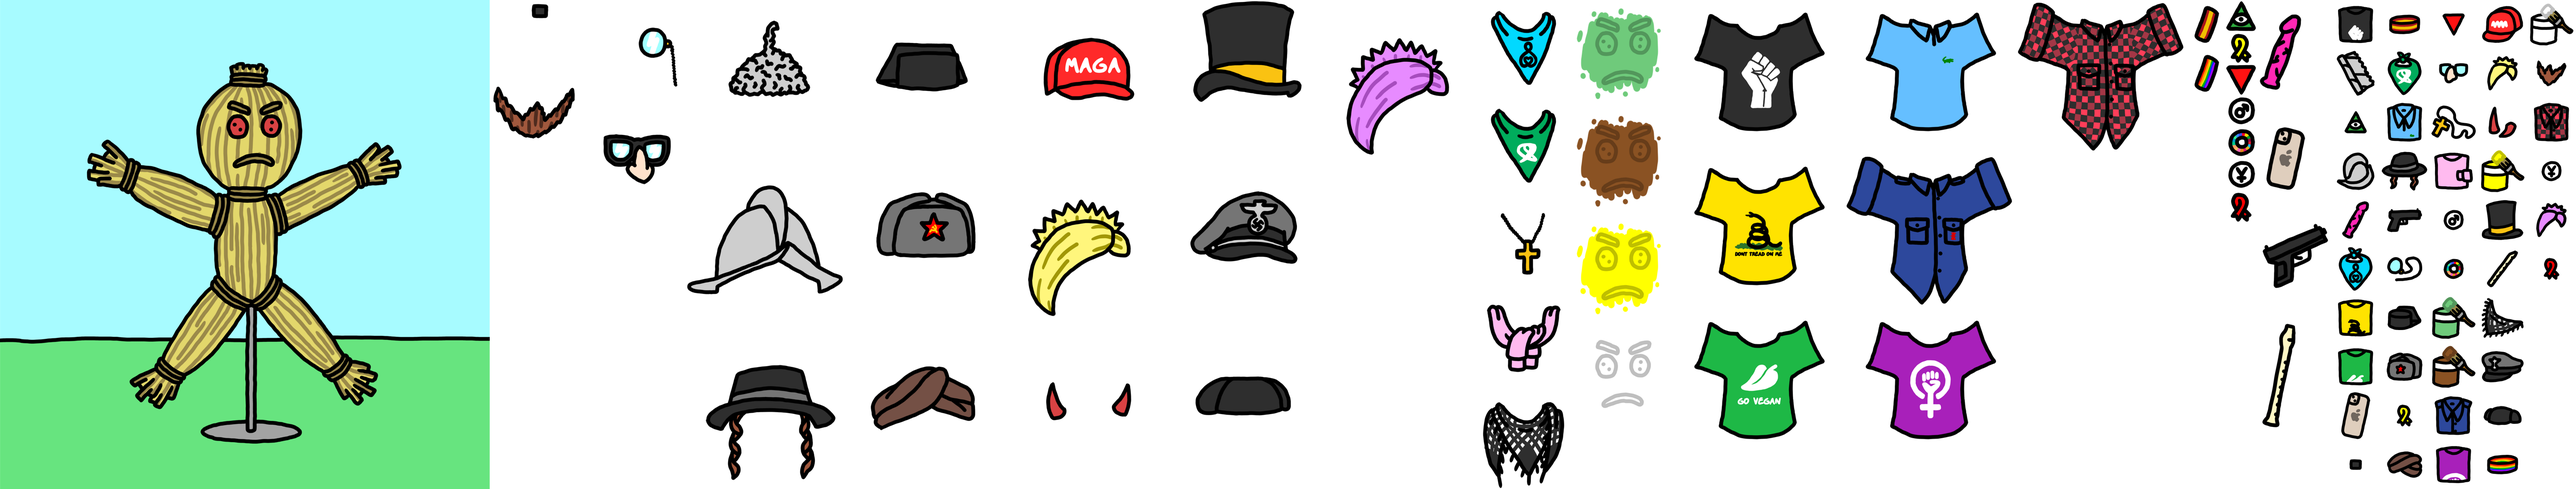
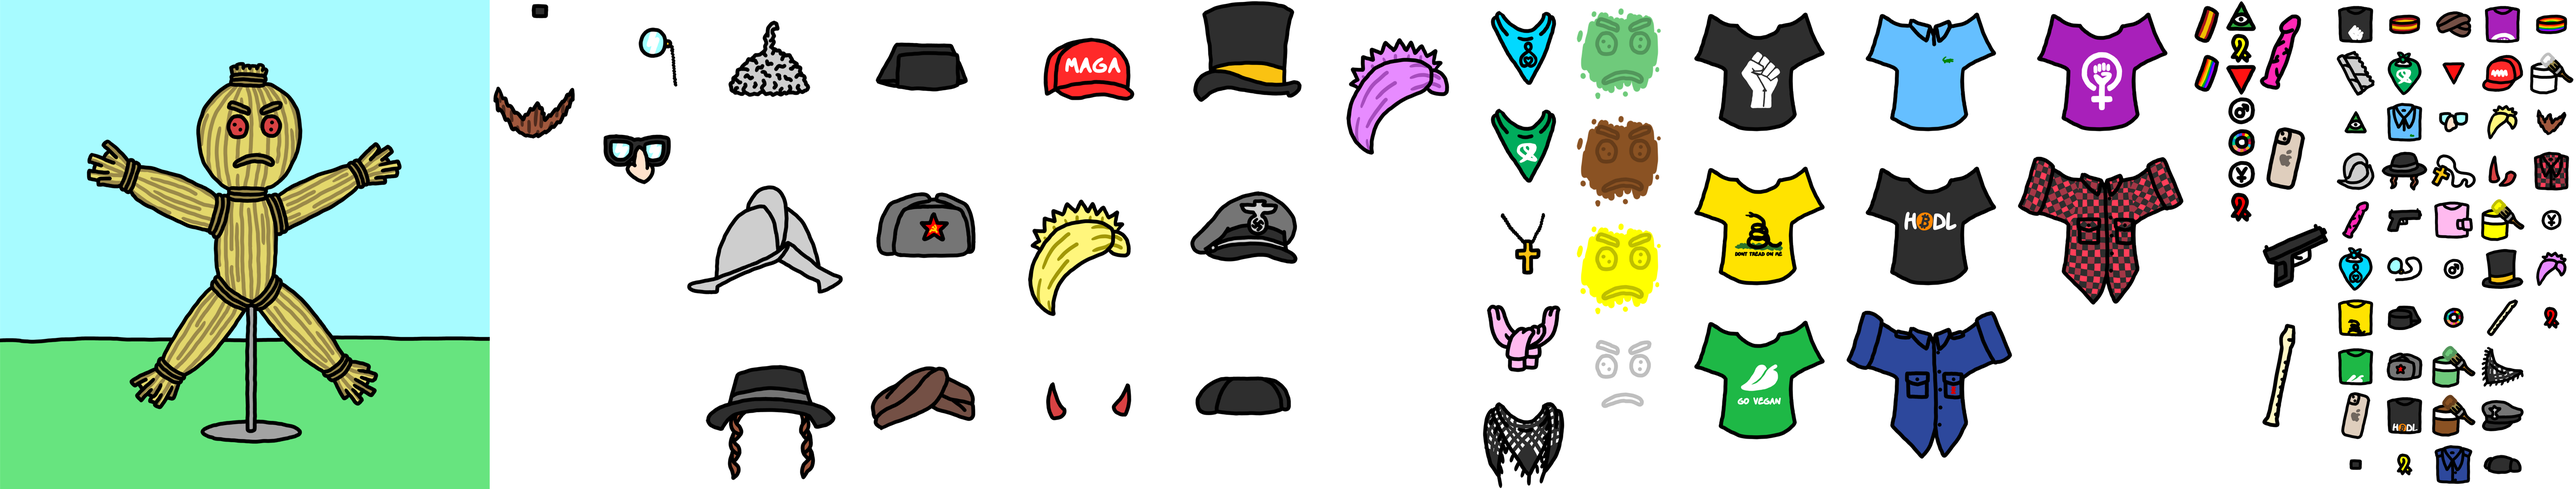
New accesories

Changed region(s): [[0.7171, 0.0, 0.873, 0.93], [0.9354, 0.0, 1.0, 0.589], [0.9042, 0.62, 0.9977, 0.992]]

diff --git a/docs/static/js/main.fb8fb88e.chunk.js b/docs/static/js/main.fb8fb88e.chunk.js
@@ -1,0 +1,2 @@
+(this.webpackJsonpstrawman=this.webpackJsonpstrawman||[]).push([[0],[,function(e){e.exports=JSON.parse('{"2030":{"en":"2030","es":"2030"},"loading":{"en":"loading","es":"cargando"},"make":{"en":"make your own","es":"crea tu propio"},"by":{"en":"by","es":"por"},"make_at":{"en":"make your own at","es":"crea el tuyo propio en"},"strawman":{"en":"straw man","es":"hombre de paja"},"download":{"en":"download","es":"descargar"},"accessories":{"en":"accessories","es":"accesorios"},"head":{"en":"head","es":"cabeza"},"color":{"en":"skin color","es":"tono de piel"},"glasses":{"en":"glasses","es":"gafas"},"neck":{"en":"neck","es":"cuello"},"bracelets":{"en":"bracelets","es":"pulseras"},"badges":{"en":"badges","es":"pines"},"hand":{"en":"hand","es":"mano"},"chest":{"en":"chest","es":"pecho"},"mouth":{"en":"mouth","es":"boca"},"spain":{"en":"Spain","es":"Espa\xf1a"},"lgbt":{"en":"LGBTIQ+","es":"LGBTIQ+"},"illuminati":{"en":"Illuminati","es":"Illuminati"},"yunque":{"en":"El Yunque","es":"El Yunque"},"male":{"en":"male","es":"hombre"},"red_triangle":{"en":"red triangle","es":"tri\xe1ngulo rojo"},"red_ribbon":{"en":"red ribbon","es":"lazo rojo"},"yellow_ribbon":{"en":"yellow ribbon","es":"lazo amarillo"},"prochoice":{"en":"pro-choice bandana","es":"pa\xf1uelo abortero"},"prolife":{"en":"pro-life bandana","es":"pa\xf1uelo provida"},"cross":{"en":"cross necklace","es":"colgante con cruz"},"nose":{"en":"glasses with nose","es":"gafas con nariz"},"monocle":{"en":"monocle","es":"mon\xf3culo"},"green":{"en":"green","es":"verde"},"white":{"en":"white","es":"blanco"},"yellow":{"en":"yellow","es":"amarillo"},"brown":{"en":"brown","es":"marr\xf3n"},"morion":{"en":"morion","es":"morri\xf3n"},"turban":{"en":"turban","es":"turbante"},"sideburns":{"en":"hat with sideburns","es":"gorro con patillas"},"commie":{"en":"communist hat","es":"gorro comunista"},"top":{"en":"top hat","es":"chistera"},"nazi":{"en":"nazi hat","es":"gorra nazi"},"maga":{"en":"MAGA hat","es":"gorra MAGA"},"tricornio":{"en":"tricornio","es":"tricornio"},"montera":{"en":"montera","es":"montera"},"pink_hair":{"en":"pink hair","es":"pelo rosa"},"blond_hair":{"en":"blond hair","es":"pelo rubio"},"horns":{"en":"horns","es":"cuernos"},"keffiyeh":{"en":"Palestinian keffiyeh","es":"palestina"},"sweater":{"en":"sweater","es":"jersey"},"tinfoil":{"en":"tinfoil","es":"papel de aluminio"},"flute":{"en":"flute","es":"flauta"},"dildo":{"en":"dildo","es":"consolador"},"gun":{"en":"gun","es":"pistola"},"iphone":{"en":"iPhone","es":"iPhone"},"blue_shirt":{"en":"blue shirt","es":"camisa azul"},"lumberjack":{"en":"lumberjack shirt","es":"camisa le\xf1ador"},"blm":{"en":"BLM T-shirt","es":"camiseta BLM"},"gadsden":{"en":"Gadsden T-shirt","es":"camiseta Gadsden"},"polo":{"en":"polo shirt","es":"polo"},"vegan":{"en":"vegan T-shirt","es":"camiseta vegana"},"feminism":{"en":"feminist T-shirt","es":"camiseta feminista"},"bitcoin":{"en":"camiseta de Bitcoin","es":"Bitcoin T-shirt"},"chaplin":{"en":"Chaplin moustache","es":"bigote de Chaplin"},"beard":{"en":"beard","es":"barba"}}')},,,,,,,,,function(e){e.exports=JSON.parse('{"strawman":{"y":0,"h":1000,"w":1000,"x":0},"chest":{"vegan":{"y":630,"h":315,"w":350,"x":3415,"t":{"y":700,"h":100,"w":100,"x":4760}},"blm":{"y":0,"h":315,"w":350,"x":3415,"t":{"y":0,"h":100,"w":100,"x":4760}},"lumberjack":{"y":315,"h":315,"w":350,"x":4115,"t":{"y":300,"h":100,"w":100,"x":5160}},"gadsden":{"y":315,"h":315,"w":350,"x":3415,"t":{"y":600,"h":100,"w":100,"x":4760}},"bitcoin":{"y":315,"h":315,"w":350,"x":3765,"t":{"y":800,"h":100,"w":100,"x":4860}},"feminism":{"y":0,"h":315,"w":350,"x":4115,"t":{"y":0,"h":100,"w":100,"x":5060}},"polo":{"y":0,"h":315,"w":350,"x":3765,"t":{"y":200,"h":100,"w":100,"x":4860}},"blue_shirt":{"y":630,"h":315,"w":350,"x":3765,"t":{"y":900,"h":100,"w":100,"x":4960}}},"mouth":{"beard":{"y":145,"h":145,"w":180,"x":1000,"t":{"y":200,"h":100,"w":100,"x":5160}},"chaplin":{"y":0,"h":145,"w":180,"x":1000,"t":{"y":900,"h":100,"w":100,"x":4760}}},"color":{"brown":{"y":220,"h":220,"w":220,"x":3195,"t":{"y":800,"h":100,"w":100,"x":4960}},"green":{"y":0,"h":220,"w":220,"x":3195,"t":{"y":700,"h":100,"w":100,"x":4960}},"white":{"y":660,"h":220,"w":220,"x":3195,"t":{"y":100,"h":100,"w":100,"x":5160}},"yellow":{"y":440,"h":220,"w":220,"x":3195,"t":{"y":400,"h":100,"w":100,"x":5060}}},"hand":{"gun":{"y":440,"h":220,"w":150,"x":4610,"t":{"y":400,"h":100,"w":100,"x":4860}},"iphone":{"y":220,"h":220,"w":150,"x":4610,"t":{"y":800,"h":100,"w":100,"x":4760}},"dildo":{"y":0,"h":220,"w":150,"x":4610,"t":{"y":400,"h":100,"w":100,"x":4760}},"flute":{"y":660,"h":220,"w":150,"x":4610,"t":{"y":600,"h":100,"w":100,"x":5060}}},"badges":{"2030":{"y":260,"h":65,"w":65,"x":4545,"t":{"y":600,"h":100,"w":100,"x":4960}},"yunque":{"y":325,"h":65,"w":65,"x":4545,"t":{"y":400,"h":100,"w":100,"x":5160}},"red_triangle":{"y":130,"h":65,"w":65,"x":4545,"t":{"y":100,"h":100,"w":100,"x":4960}},"red_ribbon":{"y":390,"h":65,"w":65,"x":4545,"t":{"y":600,"h":100,"w":100,"x":5160}},"illuminati":{"y":0,"h":65,"w":65,"x":4545,"t":{"y":200,"h":100,"w":100,"x":4760}},"yellow_ribbon":{"y":65,"h":65,"w":65,"x":4545,"t":{"y":900,"h":100,"w":100,"x":4860}},"male":{"y":195,"h":65,"w":65,"x":4545,"t":{"y":500,"h":100,"w":100,"x":4960}}},"glasses":{"monocle":{"y":0,"h":220,"w":220,"x":1180,"t":{"y":500,"h":100,"w":100,"x":4860}},"nose":{"y":220,"h":220,"w":220,"x":1180,"t":{"y":200,"h":100,"w":100,"x":4960}}},"bracelets":{"lgbt":{"y":100,"h":100,"w":80,"x":4465,"t":{"y":0,"h":100,"w":100,"x":5160}},"spain":{"y":0,"h":100,"w":80,"x":4465,"t":{"y":0,"h":100,"w":100,"x":4860}}},"neck":{"prolife":{"y":0,"h":200,"w":170,"x":3025,"t":{"y":500,"h":100,"w":100,"x":4760}},"prochoice":{"y":200,"h":200,"w":170,"x":3025,"t":{"y":100,"h":100,"w":100,"x":4860}},"keffiyeh":{"y":800,"h":200,"w":170,"x":3025,"t":{"y":700,"h":100,"w":100,"x":5060}},"sweater":{"y":600,"h":200,"w":170,"x":3025,"t":{"y":400,"h":100,"w":100,"x":4960}},"cross":{"y":400,"h":200,"w":170,"x":3025,"t":{"y":300,"h":100,"w":100,"x":4960}}},"head":{"montera":{"y":660,"h":330,"w":325,"x":2375,"t":{"y":900,"h":100,"w":100,"x":5060}},"blond_hair":{"y":330,"h":330,"w":325,"x":2050,"t":{"y":200,"h":100,"w":100,"x":5060}},"turban":{"y":660,"h":330,"w":325,"x":1725,"t":{"y":0,"h":100,"w":100,"x":4960}},"horns":{"y":660,"h":330,"w":325,"x":2050,"t":{"y":300,"h":100,"w":100,"x":5060}},"nazi":{"y":330,"h":330,"w":325,"x":2375,"t":{"y":800,"h":100,"w":100,"x":5060}},"sideburns":{"y":660,"h":330,"w":325,"x":1400,"t":{"y":300,"h":100,"w":100,"x":4860}},"morion":{"y":330,"h":330,"w":325,"x":1400,"t":{"y":300,"h":100,"w":100,"x":4760}},"tinfoil":{"y":0,"h":330,"w":325,"x":1400,"t":{"y":100,"h":100,"w":100,"x":4760}},"commie":{"y":330,"h":330,"w":325,"x":1725,"t":{"y":700,"h":100,"w":100,"x":4860}},"top":{"y":0,"h":330,"w":325,"x":2375,"t":{"y":500,"h":100,"w":100,"x":5060}},"pink_hair":{"y":0,"h":330,"w":325,"x":2700,"t":{"y":500,"h":100,"w":100,"x":5160}},"tricornio":{"y":0,"h":330,"w":325,"x":1725,"t":{"y":600,"h":100,"w":100,"x":4860}},"maga":{"y":0,"h":330,"w":325,"x":2050,"t":{"y":100,"h":100,"w":100,"x":5060}}}}')},,,function(e){e.exports=JSON.parse('{"head":{"x":340,"y":10,"w":325,"h":330,"z":8},"color":{"x":400,"y":170,"w":220,"h":220,"z":5},"mouth":{"x":420,"y":280,"w":180,"h":145,"z":6},"glasses":{"x":400,"y":170,"w":220,"h":220,"z":7},"neck":{"x":420,"y":355,"w":170,"h":200,"z":1},"bracelets":{"x":225,"y":310,"w":80,"h":100,"z":2},"badges":{"x":515,"y":395,"w":65,"h":65,"z":3},"hand":{"x":715,"y":230,"w":150,"h":220,"z":4},"chest":{"x":330,"y":345,"w":350,"h":315,"z":0}}')},,,,,,function(e,t,a){},function(e,t,a){},function(e,t,a){},,function(e,t,a){},function(e,t,a){},function(e,t,a){"use strict";a.r(t);var n=a(2),s=a.n(n),i=a(11),r=a.n(i),o=(a(19),a(3)),h=a(4),c=a(6),l=a(5),d=(a(20),a(14)),w=a(12),p=(a(21),function e(t){Object(o.a)(this,e),this.x=t.x,this.y=t.y,this.w=t.w,this.h=t.h}),y=function e(t,a,n,s){Object(o.a)(this,e),this.selected=!1,this.name=t,this.category=a,this.origin=new p(n),this.destination=new p(s),this.order=s.z,this.thumbnail=new p(n.t)},u=a(1),m=a(0),x=function(e){Object(c.a)(a,e);var t=Object(l.a)(a);function a(e){var s;return Object(o.a)(this,a),(s=t.call(this,e)).side=s.props.strawman.h,s.canvas=Object(n.createRef)(),s.maxScaleFactor=.7,s.state={scaleFactor:s.getScaleFactor()},s}return Object(h.a)(a,[{key:"componentDidMount",value:function(){var e=this;window.addEventListener("resize",(function(){e.setState({scaleFactor:e.getScaleFactor()})})),this.drawCanvas()}},{key:"componentDidUpdate",value:function(){this.drawCanvas()}},{key:"render",value:function(){var e=this;return Object(m.jsxs)("div",{className:"canvas-component",children:[Object(m.jsxs)("h1",{children:[Object(m.jsx)("div",{children:u.make[this.props.lang].capitalize()}),Object(m.jsx)("div",{children:u.strawman[this.props.lang].toUpperCase()}),Object(m.jsxs)("div",{children:[u.by[this.props.lang]," ",Object(m.jsx)("a",{href:"/",target:"_blank",children:"progredemente"})]})]}),Object(m.jsx)("canvas",{ref:this.canvas,width:this.side*this.state.scaleFactor,height:this.side*this.state.scaleFactor}),Object(m.jsx)("div",{className:"download",onClick:function(){e.downloadImage()},children:u.download[this.props.lang].capitalize()})]})}},{key:"drawCanvas",value:function(){var e=this.getTempCanvas(),t=this.canvas.current.getContext("2d");t.clearRect(0,0,this.side*this.state.scaleFactor,this.side*this.state.scaleFactor),t.drawImage(e,0,0,this.side*this.state.scaleFactor,this.side*this.state.scaleFactor)}},{key:"getTempCanvas",value:function(){var e=document.createElement("canvas");e.width=this.side,e.height=this.side;var t=e.getContext("2d");return this.drawImage(this.props.strawman,this.props.strawman,t),this.drawWardrobe(this.props.wardrobe,t),this.drawUrl(t),e}},{key:"drawWardrobe",value:function(e,t){var a,n=Object(w.a)(this.getClothes(e).sort((function(e,t){return e.order-t.order})));try{for(n.s();!(a=n.n()).done;){var s=a.value;this.drawImage(s.origin,s.destination,t)}}catch(i){n.e(i)}finally{n.f()}}},{key:"getClothes",value:function(e){var t=[];for(var a in e)e[a]instanceof y?e[a].selected&&t.push(e[a]):t.push.apply(t,Object(d.a)(this.getClothes(e[a])));return t}},{key:"drawImage",value:function(e,t,a){a.drawImage(this.props.img,e.x,e.y,e.w,e.h,t.x,t.y,t.w,t.h)}},{key:"drawUrl",value:function(e){e.font="40px ComicTypo",e.textAlign="center",e.globalAlpha=.25,e.fillText(u.make_at[this.props.lang].capitalize(),this.side/2,this.side-60),e.globalAlpha=.5,e.fillText("progredemente.com/strawman",this.side/2,this.side-20)}},{key:"downloadImage",value:function(){var e=document.createElement("a");e.download="strawman.png",this.getTempCanvas().toBlob((function(t){var a=URL.createObjectURL(t);e.href=a,e.click()}))}},{key:"getScaleFactor",value:function(){return window.innerWidth<this.side*this.maxScaleFactor?window.innerWidth/this.side:this.maxScaleFactor}}]),a}(n.Component),b=(a(23),a(24),function(e){Object(c.a)(a,e);var t=Object(l.a)(a);function a(){return Object(o.a)(this,a),t.apply(this,arguments)}return Object(h.a)(a,[{key:"render",value:function(){var e=this;return Object(m.jsxs)("div",{className:"garment".concat(this.props.garment.selected?" selected":""),onClick:function(){e.props.selectGarment(e.props.garment)},children:[Object(m.jsx)("img",{src:"./merge.png",style:{"--x":"".concat(this.props.garment.thumbnail.x,"px"),"--y":"".concat(this.props.garment.thumbnail.y,"px"),"--w":"".concat(this.props.garment.thumbnail.w,"px"),"--h":"".concat(this.props.garment.thumbnail.h,"px")},alt:u[this.props.garment.name][this.props.lang]}),Object(m.jsx)("figcaption",{children:u[this.props.garment.name][this.props.lang]})]})}}]),a}(n.Component)),g=b,f=function(e){Object(c.a)(a,e);var t=Object(l.a)(a);function a(){return Object(o.a)(this,a),t.apply(this,arguments)}return Object(h.a)(a,[{key:"render",value:function(){var e=this;return Object(m.jsxs)("div",{className:"wardrobe",children:[Object(m.jsx)("h1",{children:u.accessories[this.props.lang].capitalize()}),Object.keys(this.props.wardrobe).map((function(t){return Object(m.jsxs)("div",{className:"category",children:[Object(m.jsx)("span",{children:u[t][e.props.lang].capitalize()}),Object(m.jsx)("div",{className:"content",children:Object.keys(e.props.wardrobe[t]).map((function(a){return Object(m.jsx)(g,{garment:e.props.wardrobe[t][a],selectGarment:e.props.selectGarment,lang:e.props.lang},a)}))})]},t)}))]})}}]),a}(n.Component),j=f,v=a(10),O=a(13),k=function(e){Object(c.a)(a,e);var t=Object(l.a)(a);function a(e){var n,s;Object(o.a)(this,a),(n=t.call(this,e)).selectGarment=function(e){if(!e.selected)for(var t in e.category){var a=e.category[t];a!==e&&(a.selected=!1)}e.selected=!e.selected,n.setState({})};try{s=navigator.language.toLowerCase().split("-")[0]}catch(i){}return["en","es"].includes(s)||(s="en"),n.state={wardrobe:n.getWardrobe(v,O),lang:s,loaded:!1},n}return Object(h.a)(a,[{key:"componentDidMount",value:function(){var e=this;this.img=new Image,this.img.src="./merge.png",this.img.onload=function(){e.setState({loaded:!0})}}},{key:"getWardrobe",value:function(e,t){var a={};for(var n in e)if("strawman"!==n)for(var s in a[n]={},e[n])a[n][s]=new y(s,a[n],e[n][s],t[n]);return a}},{key:"render",value:function(){return Object(m.jsxs)(m.Fragment,{children:[this.state.loaded&&Object(m.jsxs)("div",{className:"app",children:[Object(m.jsx)(x,{wardrobe:this.state.wardrobe,strawman:new p(v.strawman),lang:this.state.lang,img:this.img}),Object(m.jsx)(j,{wardrobe:this.state.wardrobe,selectGarment:this.selectGarment,lang:this.state.lang})]}),!this.state.loaded&&Object(m.jsxs)("div",{className:"loading",children:[Object(m.jsx)("img",{src:"./favicon.png",alt:u.loading[this.state.lang]}),u.loading[this.state.lang]]})]})}}]),a}(n.Component),z=function(e){e&&e instanceof Function&&a.e(3).then(a.bind(null,26)).then((function(t){var a=t.getCLS,n=t.getFID,s=t.getFCP,i=t.getLCP,r=t.getTTFB;a(e),n(e),s(e),i(e),r(e)}))};String.prototype.capitalize=function(){return this[0].toUpperCase()+this.substr(1,this.length)},r.a.render(Object(m.jsx)(s.a.StrictMode,{children:Object(m.jsx)(k,{})}),document.getElementById("root")),z()}],[[25,1,2]]]);
+//# sourceMappingURL=main.fb8fb88e.chunk.js.map

diff --git a/docs/index.html b/docs/index.html
@@ -1,1 +1,1 @@
-<!doctype html><html lang="en"><head><meta charset="utf-8"/><link rel="icon" href="./favicon.png"/><meta name="viewport" content="width=device-width,initial-scale=1"/><meta name="theme-color" content="#000000"/><meta name="description" content="Web site created using create-react-app"/><link rel="apple-touch-icon" href="./logo192.png"/><link rel="manifest" href="./manifest.json"/><title>Straw man</title><link href="./static/css/main.2544bd09.chunk.css" rel="stylesheet"></head><body><noscript>You need to enable JavaScript to run this app.</noscript><div id="root"></div><script>!function(e){function r(r){for(var n,a,i=r[0],c=r[1],l=r[2],s=0,p=[];s<i.length;s++)a=i[s],Object.prototype.hasOwnProperty.call(o,a)&&o[a]&&p.push(o[a][0]),o[a]=0;for(n in c)Object.prototype.hasOwnProperty.call(c,n)&&(e[n]=c[n]);for(f&&f(r);p.length;)p.shift()();return u.push.apply(u,l||[]),t()}function t(){for(var e,r=0;r<u.length;r++){for(var t=u[r],n=!0,i=1;i<t.length;i++){var c=t[i];0!==o[c]&&(n=!1)}n&&(u.splice(r--,1),e=a(a.s=t[0]))}return e}var n={},o={1:0},u=[];function a(r){if(n[r])return n[r].exports;var t=n[r]={i:r,l:!1,exports:{}};return e[r].call(t.exports,t,t.exports,a),t.l=!0,t.exports}a.e=function(e){var r=[],t=o[e];if(0!==t)if(t)r.push(t[2]);else{var n=new Promise((function(r,n){t=o[e]=[r,n]}));r.push(t[2]=n);var u,i=document.createElement("script");i.charset="utf-8",i.timeout=120,a.nc&&i.setAttribute("nonce",a.nc),i.src=function(e){return a.p+"static/js/"+({}[e]||e)+"."+{3:"6449b234"}[e]+".chunk.js"}(e);var c=new Error;u=function(r){i.onerror=i.onload=null,clearTimeout(l);var t=o[e];if(0!==t){if(t){var n=r&&("load"===r.type?"missing":r.type),u=r&&r.target&&r.target.src;c.message="Loading chunk "+e+" failed.\n("+n+": "+u+")",c.name="ChunkLoadError",c.type=n,c.request=u,t[1](c)}o[e]=void 0}};var l=setTimeout((function(){u({type:"timeout",target:i})}),12e4);i.onerror=i.onload=u,document.head.appendChild(i)}return Promise.all(r)},a.m=e,a.c=n,a.d=function(e,r,t){a.o(e,r)||Object.defineProperty(e,r,{enumerable:!0,get:t})},a.r=function(e){"undefined"!=typeof Symbol&&Symbol.toStringTag&&Object.defineProperty(e,Symbol.toStringTag,{value:"Module"}),Object.defineProperty(e,"__esModule",{value:!0})},a.t=function(e,r){if(1&r&&(e=a(e)),8&r)return e;if(4&r&&"object"==typeof e&&e&&e.__esModule)return e;var t=Object.create(null);if(a.r(t),Object.defineProperty(t,"default",{enumerable:!0,value:e}),2&r&&"string"!=typeof e)for(var n in e)a.d(t,n,function(r){return e[r]}.bind(null,n));return t},a.n=function(e){var r=e&&e.__esModule?function(){return e.default}:function(){return e};return a.d(r,"a",r),r},a.o=function(e,r){return Object.prototype.hasOwnProperty.call(e,r)},a.p="./",a.oe=function(e){throw console.error(e),e};var i=this.webpackJsonpstrawman=this.webpackJsonpstrawman||[],c=i.push.bind(i);i.push=r,i=i.slice();for(var l=0;l<i.length;l++)r(i[l]);var f=c;t()}([])</script><script src="./static/js/2.81d7165c.chunk.js"></script><script src="./static/js/main.3e4aa3d1.chunk.js"></script></body></html>
+<!doctype html><html lang="en"><head><meta charset="utf-8"/><link rel="icon" href="./favicon.png"/><meta name="viewport" content="width=device-width,initial-scale=1"/><meta name="theme-color" content="#000000"/><meta name="description" content="Web site created using create-react-app"/><link rel="apple-touch-icon" href="./logo192.png"/><link rel="manifest" href="./manifest.json"/><title>Straw man</title><link href="./static/css/main.2544bd09.chunk.css" rel="stylesheet"></head><body><noscript>You need to enable JavaScript to run this app.</noscript><div id="root"></div><script>!function(e){function r(r){for(var n,a,i=r[0],c=r[1],l=r[2],s=0,p=[];s<i.length;s++)a=i[s],Object.prototype.hasOwnProperty.call(o,a)&&o[a]&&p.push(o[a][0]),o[a]=0;for(n in c)Object.prototype.hasOwnProperty.call(c,n)&&(e[n]=c[n]);for(f&&f(r);p.length;)p.shift()();return u.push.apply(u,l||[]),t()}function t(){for(var e,r=0;r<u.length;r++){for(var t=u[r],n=!0,i=1;i<t.length;i++){var c=t[i];0!==o[c]&&(n=!1)}n&&(u.splice(r--,1),e=a(a.s=t[0]))}return e}var n={},o={1:0},u=[];function a(r){if(n[r])return n[r].exports;var t=n[r]={i:r,l:!1,exports:{}};return e[r].call(t.exports,t,t.exports,a),t.l=!0,t.exports}a.e=function(e){var r=[],t=o[e];if(0!==t)if(t)r.push(t[2]);else{var n=new Promise((function(r,n){t=o[e]=[r,n]}));r.push(t[2]=n);var u,i=document.createElement("script");i.charset="utf-8",i.timeout=120,a.nc&&i.setAttribute("nonce",a.nc),i.src=function(e){return a.p+"static/js/"+({}[e]||e)+"."+{3:"6449b234"}[e]+".chunk.js"}(e);var c=new Error;u=function(r){i.onerror=i.onload=null,clearTimeout(l);var t=o[e];if(0!==t){if(t){var n=r&&("load"===r.type?"missing":r.type),u=r&&r.target&&r.target.src;c.message="Loading chunk "+e+" failed.\n("+n+": "+u+")",c.name="ChunkLoadError",c.type=n,c.request=u,t[1](c)}o[e]=void 0}};var l=setTimeout((function(){u({type:"timeout",target:i})}),12e4);i.onerror=i.onload=u,document.head.appendChild(i)}return Promise.all(r)},a.m=e,a.c=n,a.d=function(e,r,t){a.o(e,r)||Object.defineProperty(e,r,{enumerable:!0,get:t})},a.r=function(e){"undefined"!=typeof Symbol&&Symbol.toStringTag&&Object.defineProperty(e,Symbol.toStringTag,{value:"Module"}),Object.defineProperty(e,"__esModule",{value:!0})},a.t=function(e,r){if(1&r&&(e=a(e)),8&r)return e;if(4&r&&"object"==typeof e&&e&&e.__esModule)return e;var t=Object.create(null);if(a.r(t),Object.defineProperty(t,"default",{enumerable:!0,value:e}),2&r&&"string"!=typeof e)for(var n in e)a.d(t,n,function(r){return e[r]}.bind(null,n));return t},a.n=function(e){var r=e&&e.__esModule?function(){return e.default}:function(){return e};return a.d(r,"a",r),r},a.o=function(e,r){return Object.prototype.hasOwnProperty.call(e,r)},a.p="./",a.oe=function(e){throw console.error(e),e};var i=this.webpackJsonpstrawman=this.webpackJsonpstrawman||[],c=i.push.bind(i);i.push=r,i=i.slice();for(var l=0;l<i.length;l++)r(i[l]);var f=c;t()}([])</script><script src="./static/js/2.81d7165c.chunk.js"></script><script src="./static/js/main.fb8fb88e.chunk.js"></script></body></html>
